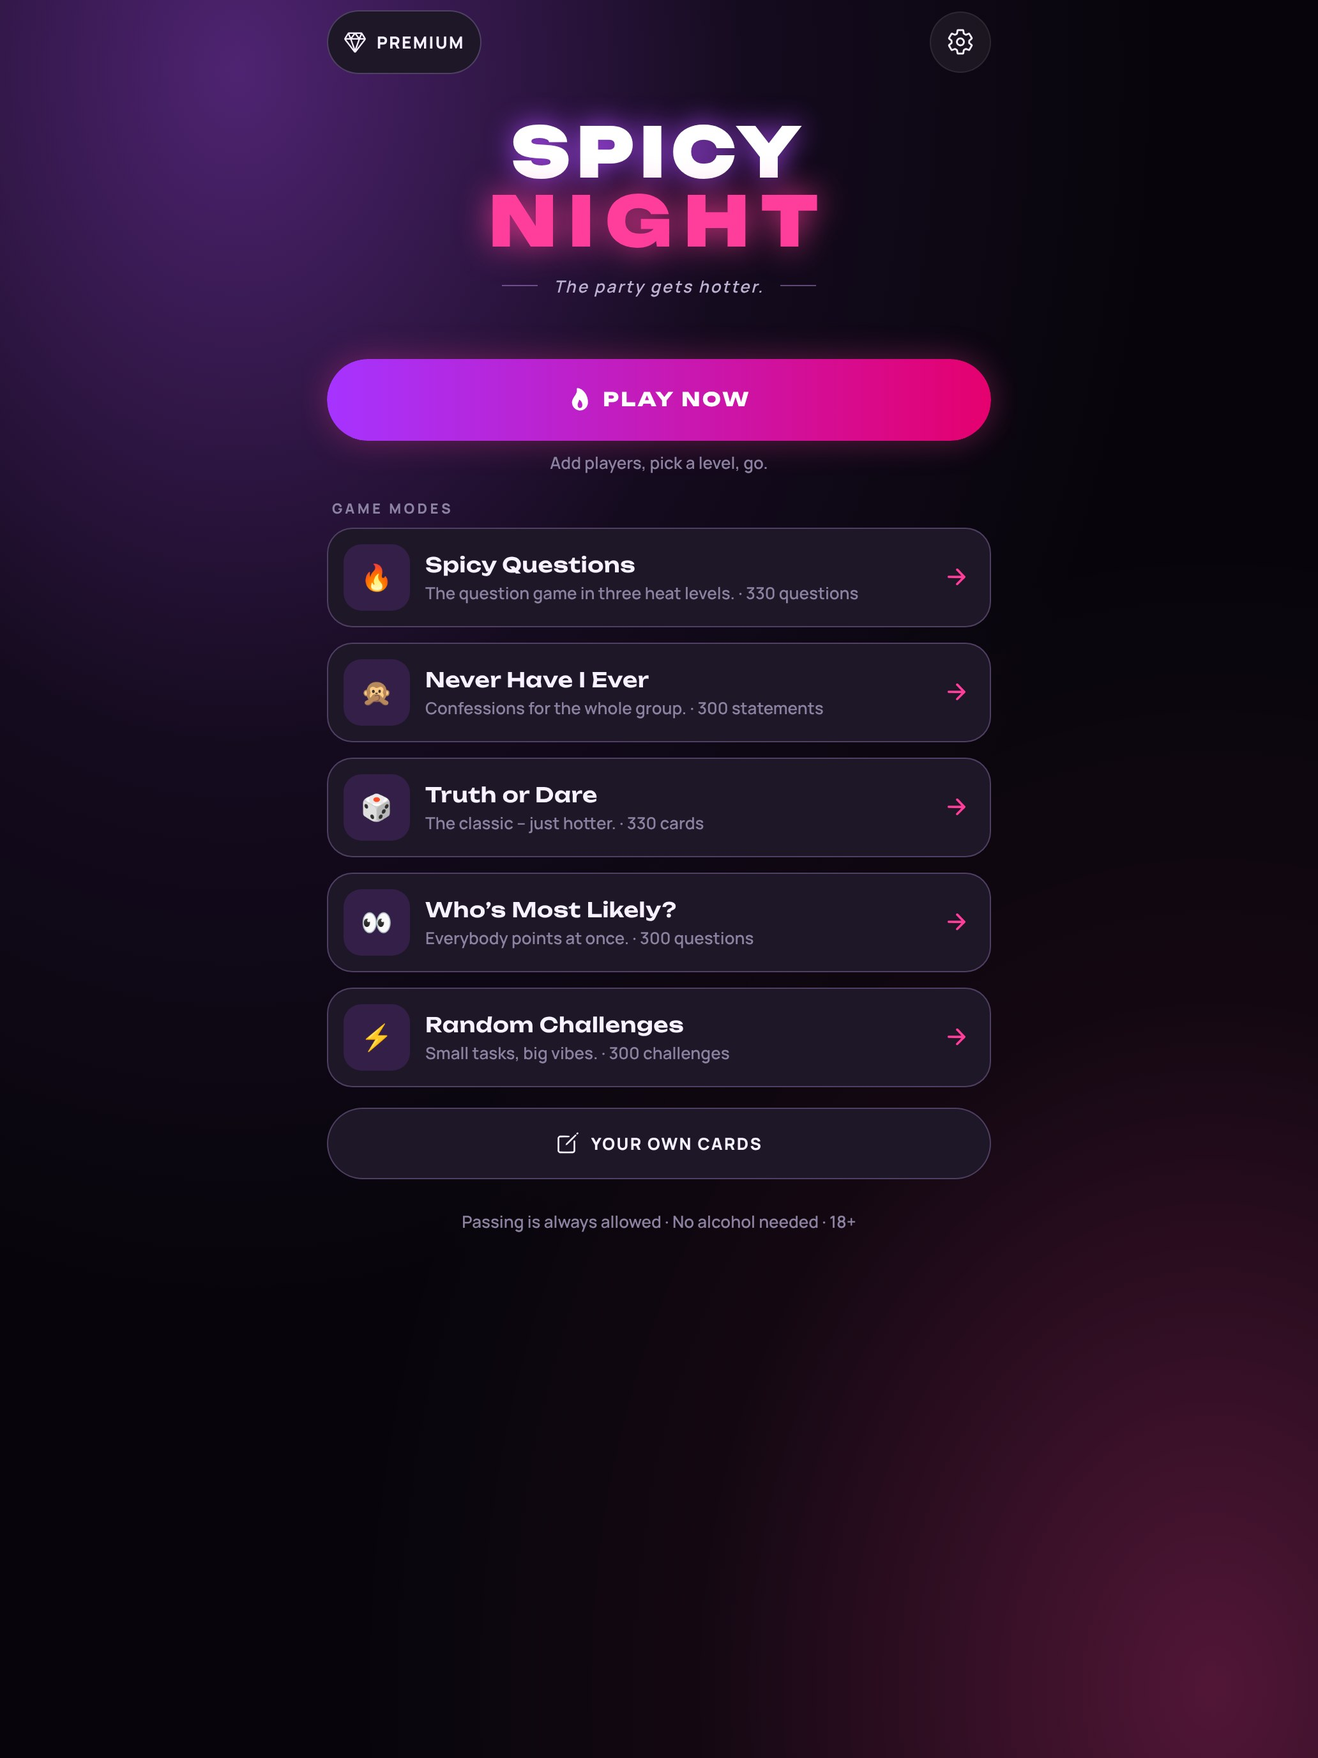
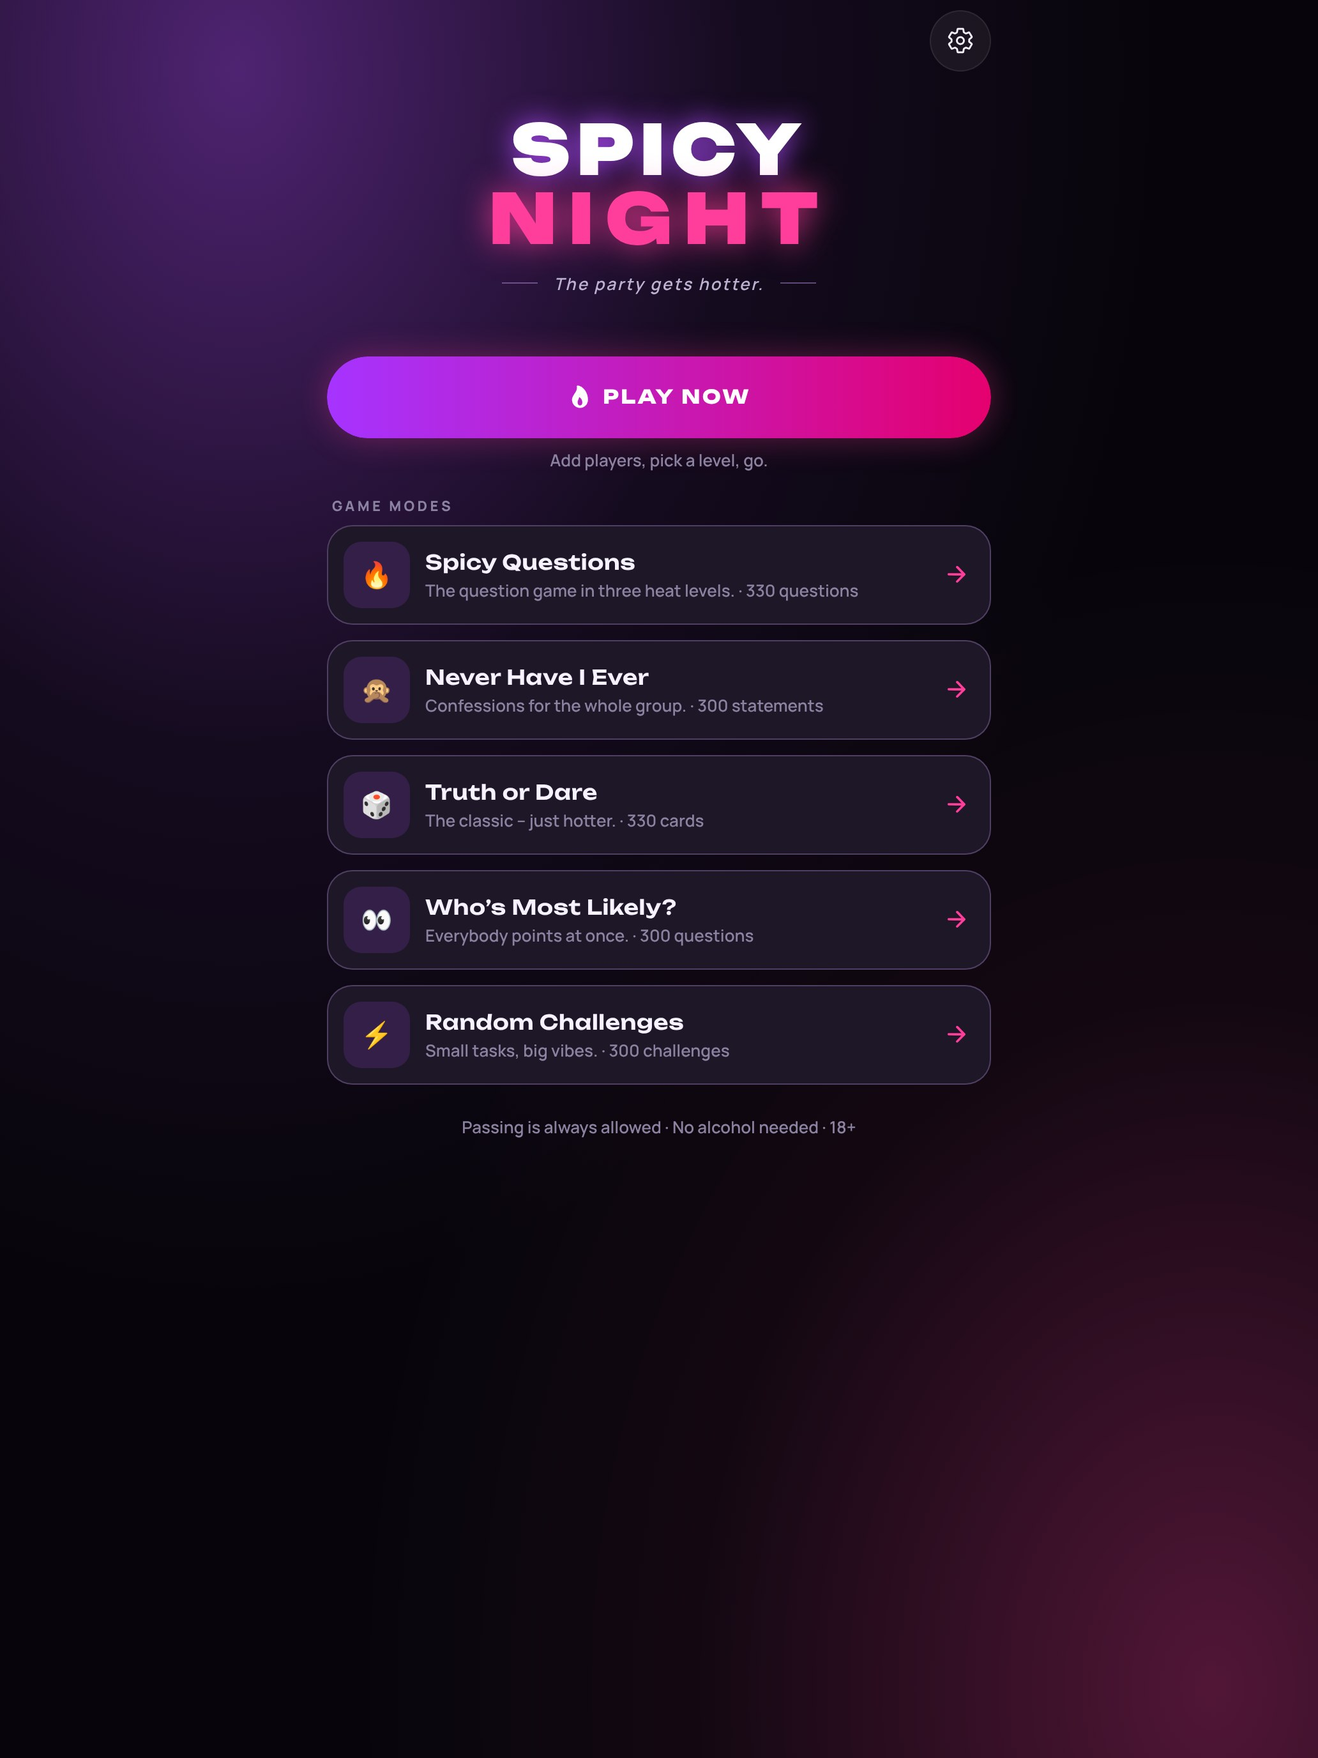
Hide Premium and own cards until purchases exist
- New release switch FEATURES.premium (src/config/features.ts), off for
  the store version: the stores reject features that cannot be unlocked
- Home and level screens show no Premium or own-cards entry points;
  deep links to /premium and /custom-cards land on the home screen
- A test keeps FEATURES.premium equal to PURCHASES_ENABLED
- Integration tests for the hidden state; existing Premium tests switch
  the feature on for themselves
- Store screenshots of home and level screens regenerated; review notes,
  store checklist and README updated

Claude-Session: https://claude.ai/code/session_012RtrRdTGAwyUzF1m6gGxGf

diff --git a/tests/integration/custom-cards.test.tsx b/tests/integration/custom-cards.test.tsx
@@ -1,6 +1,7 @@
 import { act, userEvent } from '@testing-library/react-native';
 import { renderRouter, screen } from 'expo-router/testing-library';
 
+import { FEATURES } from '@/config/features';
 import { useCustomCardsStore, useEntitlementsStore, useGameStore, useSettingsStore } from '@/store';
 
 import { addPlayers, resetStores } from '../helpers/stores';
@@ -15,7 +16,11 @@ describe('own cards', () => {
   beforeEach(async () => {
     await resetStores();
     useSettingsStore.getState().confirmAge();
+    // Premium is switched off for the store release; these tests cover the feature itself.
+    jest.replaceProperty(FEATURES, 'premium', true);
   });
+
+  afterEach(() => jest.restoreAllMocks());
 
   it('are a Premium feature – without Premium the screen explains it and links to Premium', async () => {
     const user = userEvent.setup();
@@ -117,5 +122,37 @@ describe('own cards', () => {
     await renderRouter(APP_DIR, { initialUrl: '/game' });
     expect(await screen.findByText('Was ist dein Lieblingswitz?')).toBeOnTheScreen();
     expect(screen.getByText('Eigene Karte')).toBeOnTheScreen();
+  });
+});
+
+describe('while Premium is switched off (store release)', () => {
+  beforeEach(async () => {
+    await resetStores();
+    useSettingsStore.getState().confirmAge();
+    jest.replaceProperty(FEATURES, 'premium', false);
+  });
+
+  afterEach(() => jest.restoreAllMocks());
+
+  it('shows no way to Premium or to own cards on the home screen', async () => {
+    await renderRouter(APP_DIR, { initialUrl: '/' });
+    expect(await screen.findByTestId('play-now')).toBeOnTheScreen();
+    expect(screen.queryByRole('button', { name: 'Premium' })).not.toBeOnTheScreen();
+    expect(screen.queryByTestId('home-custom-cards')).not.toBeOnTheScreen();
+    expect(screen.getByRole('button', { name: 'Einstellungen' })).toBeOnTheScreen();
+  });
+
+  it('shows no link to own cards on the level screen', async () => {
+    addPlayers('Ana', 'Ben');
+    await renderRouter(APP_DIR, { initialUrl: '/level' });
+    expect(await screen.findByTestId('level-mild')).toBeOnTheScreen();
+    expect(screen.queryByTestId('level-custom-cards')).not.toBeOnTheScreen();
+  });
+
+  it.each(['/premium', '/custom-cards'])('sends a deep link to %s to the home screen', async (url) => {
+    const router = await renderRouter(APP_DIR, { initialUrl: url });
+    expect(await screen.findByTestId('play-now')).toBeOnTheScreen();
+    expect(router.getPathname()).toBe('/');
+    expect(screen.queryByTestId('custom-cards-locked')).not.toBeOnTheScreen();
   });
 });

diff --git a/src/app/index.tsx b/src/app/index.tsx
@@ -3,6 +3,7 @@ import { useEffect, useMemo, useState } from 'react';
 import { Animated, Easing, StyleSheet, View } from 'react-native';
 
 import { AppText, Button, IconButton, Logo, Screen, SectionTitle } from '@/components/ui';
+import { FEATURES } from '@/config/features';
 import { ModeCard } from '@/features/game-modes/ModeCard';
 import { listGameModes, type GameModeId } from '@/features/game-modes/registry';
 import { ResumeCard } from '@/features/gameplay/components/ResumeCard';
@@ -51,14 +52,18 @@ export default function HomeScreen() {
     <Screen
       header={
         <View style={styles.topBar}>
-          <Button
-            label={t('home.premium')}
-            icon="diamond-outline"
-            variant="secondary"
-            size="sm"
-            onPress={() => router.push('/premium')}
-            style={styles.premium}
-          />
+          {FEATURES.premium ? (
+            <Button
+              label={t('home.premium')}
+              icon="diamond-outline"
+              variant="secondary"
+              size="sm"
+              onPress={() => router.push('/premium')}
+              style={styles.premium}
+            />
+          ) : (
+            <View />
+          )}
           <IconButton icon="settings-outline" label={t('home.settings')} onPress={() => router.push('/settings')} />
         </View>
       }
@@ -105,16 +110,18 @@ export default function HomeScreen() {
         ))}
       </View>
 
-      <Button
-        label={t('home.customCards')}
-        hint={t('home.customCardsHint')}
-        icon="create-outline"
-        variant="secondary"
-        size="md"
-        onPress={() => router.push('/custom-cards')}
-        style={styles.custom}
-        testID="home-custom-cards"
-      />
+      {FEATURES.premium ? (
+        <Button
+          label={t('home.customCards')}
+          hint={t('home.customCardsHint')}
+          icon="create-outline"
+          variant="secondary"
+          size="md"
+          onPress={() => router.push('/custom-cards')}
+          style={styles.custom}
+          testID="home-custom-cards"
+        />
+      ) : null}
 
       <AppText variant="caption" color={colors.textMuted} align="center" style={styles.footer}>
         {t('home.footer')}

diff --git a/src/app/level.tsx b/src/app/level.tsx
@@ -3,6 +3,7 @@ import { useState } from 'react';
 import { StyleSheet, View } from 'react-native';
 
 import { AppText, Button, ConfirmSheet, Header, Icon, Screen, Surface } from '@/components/ui';
+import { FEATURES } from '@/config/features';
 import { modeTitleKey } from '@/features/game-modes/labels';
 import { DEFAULT_MODE_ID, getGameMode, isGameModeId } from '@/features/game-modes/registry';
 import { LevelCard } from '@/features/levels/components/LevelCard';
@@ -102,16 +103,18 @@ export default function LevelScreen() {
           />
         ))}
       </View>
-      <Button
-        label={t('level.customLink')}
-        hint={t('level.customLinkHint')}
-        icon="create-outline"
-        variant="ghost"
-        size="sm"
-        onPress={() => router.push({ pathname: '/custom-cards', params: { mode: modeId, level: selected } })}
-        style={styles.customLink}
-        testID="level-custom-cards"
-      />
+      {FEATURES.premium ? (
+        <Button
+          label={t('level.customLink')}
+          hint={t('level.customLinkHint')}
+          icon="create-outline"
+          variant="ghost"
+          size="sm"
+          onPress={() => router.push({ pathname: '/custom-cards', params: { mode: modeId, level: selected } })}
+          style={styles.customLink}
+          testID="level-custom-cards"
+        />
+      ) : null}
       <ConfirmSheet
         visible={consentFor !== null}
         emoji={LEVELS.extreme.emoji}

diff --git a/src/app/_layout.tsx b/src/app/_layout.tsx
@@ -14,6 +14,7 @@ import { useEffect } from 'react';
 import { Platform, StyleSheet, View } from 'react-native';
 
 import { AppText, Button, Screen } from '@/components/ui';
+import { FEATURES } from '@/config/features';
 import { useMotion } from '@/hooks/useMotion';
 import { translate } from '@/i18n';
 import { useSettingsStore, useStoresHydrated } from '@/store';
@@ -69,8 +70,11 @@ export default function RootLayout() {
           <Stack.Screen name="level" />
           <Stack.Screen name="game" options={{ animation: fade, gestureEnabled: false }} />
           <Stack.Screen name="summary" options={{ animation: fade, gestureEnabled: false }} />
-          <Stack.Screen name="premium" options={{ presentation: 'modal' }} />
-          <Stack.Screen name="custom-cards" />
+          {/* Hidden until real purchases exist – deep links then land on the home screen. */}
+          <Stack.Protected guard={FEATURES.premium}>
+            <Stack.Screen name="premium" options={{ presentation: 'modal' }} />
+            <Stack.Screen name="custom-cards" />
+          </Stack.Protected>
           <Stack.Screen name="settings/index" />
         </Stack.Protected>
         <Stack.Protected guard={!ageConfirmed}>

diff --git a/tests/integration/screens.test.tsx b/tests/integration/screens.test.tsx
@@ -2,6 +2,7 @@ import AsyncStorage from '@react-native-async-storage/async-storage';
 import { userEvent } from '@testing-library/react-native';
 import { renderRouter, screen, within } from 'expo-router/testing-library';
 
+import { FEATURES } from '@/config/features';
 import { LEGAL } from '@/config/legal';
 import { STORAGE_KEYS } from '@/services/storage';
 import { useCustomCardsStore, useEntitlementsStore, useGameStore, useSettingsStore } from '@/store';
@@ -165,6 +166,8 @@ describe('home screen', () => {
     useSettingsStore.getState().confirmAge();
   });
 
+  afterEach(() => jest.restoreAllMocks());
+
   it('shows the game modes and offers to resume a running game', async () => {
     addPlayers('Lena', 'Max');
     useGameStore.getState().startGame('spicy-questions', 'hot');
@@ -181,6 +184,7 @@ describe('home screen', () => {
   });
 
   it('opens the premium preview without any purchase option', async () => {
+    jest.replaceProperty(FEATURES, 'premium', true);
     const user = userEvent.setup();
     await renderRouter(APP_DIR, { initialUrl: '/' });
     await user.press(await screen.findByRole('button', { name: 'Premium' }));

diff --git a/tests/unit/premium-modes.test.ts b/tests/unit/premium-modes.test.ts
@@ -7,6 +7,7 @@ import {
   listGameModes,
   listPlayableModeIds,
 } from '@/features/game-modes/registry';
+import { FEATURES } from '@/config/features';
 import { cardCountKey, modeTitleKey } from '@/features/game-modes/labels';
 import { canShowAd } from '@/features/premium/adPolicy';
 import { canAccessTier, FREE_ENTITLEMENTS } from '@/features/premium/entitlements';
@@ -19,6 +20,10 @@ describe('premium preparation', () => {
     expect(canAccessTier('free', FREE_ENTITLEMENTS)).toBe(true);
     expect(canAccessTier('premium', FREE_ENTITLEMENTS)).toBe(false);
     expect(canAccessTier('premium', { premium: true })).toBe(true);
+  });
+
+  it('shows Premium only once purchases really work (no placeholder features in the stores)', () => {
+    expect(FEATURES.premium).toBe(PURCHASES_ENABLED);
   });
 
   it('never simulates a successful purchase', async () => {

diff --git a/src/config/features.ts b/src/config/features.ts
@@ -1,0 +1,12 @@
+/**
+ * Release switches.
+ *
+ * `premium` shows the Premium screen and the Premium-only "Eigene Karten" (custom cards).
+ * It stays off until real in-app purchases exist (`PURCHASES_ENABLED` in
+ * `features/premium/plans.ts`): the stores reject features that cannot be unlocked, and a
+ * preview with prices nobody can pay is placeholder content (App Review Guideline 2.1).
+ * The code behind it stays in place – switch both flags on together.
+ */
+export const FEATURES: { premium: boolean } = {
+  premium: false,
+};

diff --git a/README.md b/README.md
@@ -172,9 +172,13 @@ Englisch) liegen in [`docs/store/screenshots/`](docs/store/screenshots/) – sie
 ### Vorbereitet (noch nicht aktiv)
 - **Premium/Freemium** – Preis-Konfiguration, Entitlements, Kauf-Schnittstelle, Werbe-Regeln.
   Es werden **keine Zahlungen** abgewickelt oder simuliert.
+- **Ausgeblendet bis zu echten Käufen:** Premium-Vorschau und „Eigene Karten“ sind in der
+  Store-Version nicht sichtbar (`src/config/features.ts`, `FEATURES.premium = false`), weil
+  die Stores nicht freischaltbare Funktionen ablehnen. Eingeschaltet wird der Schalter
+  zusammen mit `PURCHASES_ENABLED`.
 - **Eigene Karten (Premium)** – fertig gebaut, aber gesperrt, bis Premium-Käufe eingebaut sind.
-  Startseite und Level-Auswahl führen zu „Eigene Karten“; ohne Premium erklärt der Bildschirm
-  die Funktion und verlinkt zur Premium-Seite. Mit Premium:
+  Bei eingeschaltetem Premium-Schalter führen Startseite und Level-Auswahl zu „Eigene Karten“;
+  ohne Premium erklärt der Bildschirm die Funktion und verlinkt zur Premium-Seite. Mit Premium:
   - eigene Karten je Spielmodus und Level anlegen, bearbeiten und löschen (nur auf dem Gerät);
   - „Ich hab noch nie …“ / „Wer würde am ehesten …?“ ergänzt die App selbst (in der App-Sprache),
     ebenso fehlende Satzzeichen; „Mitspieler einfügen“ setzt einen zufälligen Mitspieler ein
@@ -222,7 +226,8 @@ Englisch) liegen in [`docs/store/screenshots/`](docs/store/screenshots/) – sie
 │   │   ├── premium.tsx          # Premium-Vorschau (ohne Kauf)
 │   │   └── settings/            # Einstellungen, Datenschutz, Fair Play, Über
 │   ├── components/ui/           # Designsystem-Komponenten (Button, Sheet, Screen, …)
-│   ├── config/legal.ts          # Anbieterdaten für die Datenschutzhinweise (vor Release ausfüllen)
+│   ├── config/                  # legal.ts: Anbieterdaten (vor Release ausfüllen),
+│   │                            # features.ts: Premium-Schalter (aus bis zu echten Käufen)
 │   ├── features/
 │   │   ├── gameplay/engine/     # Reine Spiellogik: Deck, Rotation, Session (ohne React)
 │   │   ├── gameplay/components/ # Fragekarte, Spieler-Banner, Level-Sheet, …
@@ -333,7 +338,8 @@ Einstellungen, Sprache, 18+-Sperre, Datenlöschung sowie der komplette Spielabla
 aller fünf Spielmodi über die echten Routen (inkl. Wahl Wahrheit/Pflicht, Spielerauswahl und
 Zählern in den Gruppenmodi, dem 3‑2‑1‑Countdown und dem Challenge-Timer) und die englischen
 Karten inklusive Sprachwechsel mitten im Spiel sowie die eigenen Karten (gesperrt ohne Premium;
-mit simuliertem Premium-Status: Anlegen, Ablehnen, Bearbeiten, Löschen, Anzeige im Spiel).
+mit simuliertem Premium-Status: Anlegen, Ablehnen, Bearbeiten, Löschen, Anzeige im Spiel) und
+die Store-Version mit ausgeblendetem Premium (keine Verweise, Deep Links führen zur Startseite).
 
 Die **GitHub-Actions-CI** (`.github/workflows/ci.yml`) führt bei jedem Push/PR Typecheck,
 Lint, Fragen-Validierung und Tests aus und baut anschließend Android-, iOS- und Web-Bundles
@@ -537,6 +543,8 @@ Neuen Modus aktivieren:
 ### Premium (`src/features/premium`)
 - `plans.ts` – geplante Preise (2,99 €/Monat, 14,99 €/Jahr, 12,99 € Lifetime) und Store-Produkt-IDs,
   `PURCHASES_ENABLED = false`.
+- `src/config/features.ts` – `FEATURES.premium` blendet Premium-Seite und „Eigene Karten“ ein;
+  muss immer gleich `PURCHASES_ENABLED` sein (Test in `premium-modes.test.ts`).
 - `entitlements.ts` – `free`/`premium`-Tiers; Fragenpakete haben ein `tier`;
   `canUseFeature()` sagt, ob eine Premium-Funktion (z. B. `customQuestions`) nutzbar ist.
 - `store/entitlementsStore.ts` – aktueller Premium-Status, **nicht gespeichert** und immer
@@ -608,8 +616,8 @@ eine Sprache, wird auf Deutsch zurückgegriffen. Feste Kartenanfänge („Ich ha
   Anbieterdaten in `src/config/legal.ts` eintragen.
 - Die Checkliste in [`docs/store/README.md`](docs/store/README.md) abarbeiten: Bundle-ID,
   `eas init`, Store-Einträge, Datenschutz- und Support-URL, Fragebögen.
-- Premium-Vorschau für die erste Store-Version klären: Apple lehnt Platzhalter-Funktionen
-  oft ab (Details in `docs/store/README.md`).
+- Kommen Käufe dazu: `FEATURES.premium` und `PURCHASES_ENABLED` gemeinsam einschalten und die
+  Store-Angaben neu prüfen (Details in `docs/store/README.md`).
 - Test auf echten iOS- und Android-Geräten (inkl. Screenreader, großer Schrift, älterer Geräte).
 - Lizenz des Projekts festlegen. Die verwendeten Schriften stehen unter der SIL Open Font
   License, die Icons (Ionicons) unter MIT.

diff --git a/docs/store/README.md b/docs/store/README.md
@@ -37,7 +37,6 @@ verbotene Begriffe, Bildgrößen und dass Zahlen wie „1560 Karten“ zur App p
 - [ ] **Datenschutzerklärung** rechtlich prüfen, Platzhalter ausfüllen und öffentlich
       erreichbar machen (eigene Website o. Ä.). Beide Stores verlangen die URL.
 - [ ] **Support-URL** (Apple: Pflicht) – eine Seite mit Kontaktmöglichkeit genügt.
-- [ ] **Premium-Vorschau klären** (siehe „Offene Punkte“ unten).
 - [ ] **App-Name prüfen:** „SPICY NIGHT“ muss im App Store noch frei sein. Ist er vergeben,
       Namen in `store.config.json` (`title`) und `app.json` anpassen.
 
@@ -96,16 +95,25 @@ ergänzen und neu bauen.
    `eas.json` lädt Builds als Entwurf in den internen Test-Track; in die Produktion gibst
    du sie in der Play Console frei.
 
-## Offene Punkte vor der Einreichung
+## Premium in der Store-Version
 
-- **Premium-Vorschau:** Der Premium-Bildschirm zeigt geplante Funktionen und Preise, die man
-  noch nicht kaufen kann, und „Eigene Karten“ ist ohne Premium gesperrt. Apple lehnt Apps mit
-  Platzhalter- oder unfertigen Funktionen häufig ab (Richtlinie 2.1). Außerdem nennt die
-  Vorschau „Werbefreies Spielerlebnis“, obwohl die App gar keine Werbung enthält.
-  Empfehlung für die erste Version: Premium-Vorschau ausblenden und „Eigene Karten“ entweder
-  ausblenden oder vorerst freischalten – oder mit der Einreichung warten, bis Käufe fertig
-  sind.
-- **Inhalte bei Google Play:** siehe Richtlinien-Hinweis in [`questionnaires.md`](questionnaires.md).
+Solange es keine echten Käufe gibt, sind die Premium-Vorschau und „Eigene Karten“
+ausgeblendet ([`src/config/features.ts`](../../src/config/features.ts), `FEATURES.premium =
+false`). Apple lehnt Apps mit Funktionen, die man nicht freischalten kann, und Platzhalter-
+Inhalten häufig ab (Richtlinie 2.1). Startseite und Level-Auswahl zeigen deshalb keine
+Verweise darauf, und Deep Links auf `/premium` oder `/custom-cards` führen zur Startseite.
+
+Kommen Käufe dazu, werden `FEATURES.premium` und `PURCHASES_ENABLED` gemeinsam eingeschaltet
+(ein Test achtet darauf). Dann vorher prüfen:
+
+- Die Vorschau nennt „Werbefreies Spielerlebnis“, obwohl die App keine Werbung enthält –
+  Text anpassen, solange das so bleibt.
+- App-Datenschutz, Data safety, Datenschutzerklärung, Review-Hinweise und Screenshots neu
+  prüfen bzw. erzeugen.
+
+## Inhalte bei Google Play
+
+Siehe Richtlinien-Hinweis in [`questionnaires.md`](questionnaires.md).
 
 ## Screenshots und Grafiken neu erzeugen
 

diff --git a/docs/store/review-notes.md b/docs/store/review-notes.md
@@ -18,7 +18,7 @@ How to test:
 Notes:
 - No account or login is needed; there is no demo account.
 - The app works fully offline. It sends no data anywhere: no analytics, no ads, no tracking.
-- There are no in-app purchases. The "Premium" screen only previews planned features and clearly states that purchases are not possible yet.
+- There are no in-app purchases and no locked content: every feature in this version is free.
 - The app never asks anyone to drink alcohol. Every task can be declined, tasks involving touch require a clear yes, and the EXTREME level asks the whole group for consent first.
 - Card content is text only (no images, no nudity). It covers flirting, dating and personal questions for adults. The app is intended exclusively for users aged 18 and over.
 ```
@@ -36,7 +36,7 @@ So testet ihr:
 Hinweise:
 - Kein Konto und kein Login nötig; es gibt keinen Demo-Zugang.
 - Die App funktioniert komplett offline und sendet keine Daten: keine Analyse, keine Werbung, kein Tracking.
-- Es gibt keine In-App-Käufe. Der Premium-Bildschirm zeigt nur geplante Funktionen und sagt deutlich, dass noch keine Käufe möglich sind.
+- Es gibt keine In-App-Käufe und keine gesperrten Inhalte: Alles in dieser Version ist kostenlos.
 - Die App fordert nie zum Alkoholtrinken auf. Jede Aufgabe darf abgelehnt werden, Aufgaben mit Berührung nur mit klarem Ja, und vor EXTREME stimmt die ganze Runde zu.
 - Die Karten sind reiner Text (keine Bilder, keine Nacktheit) mit Flirt-, Dating- und persönlichen Fragen für Erwachsene. Die App ist ausschließlich für Personen ab 18 Jahren gedacht.
 ```
